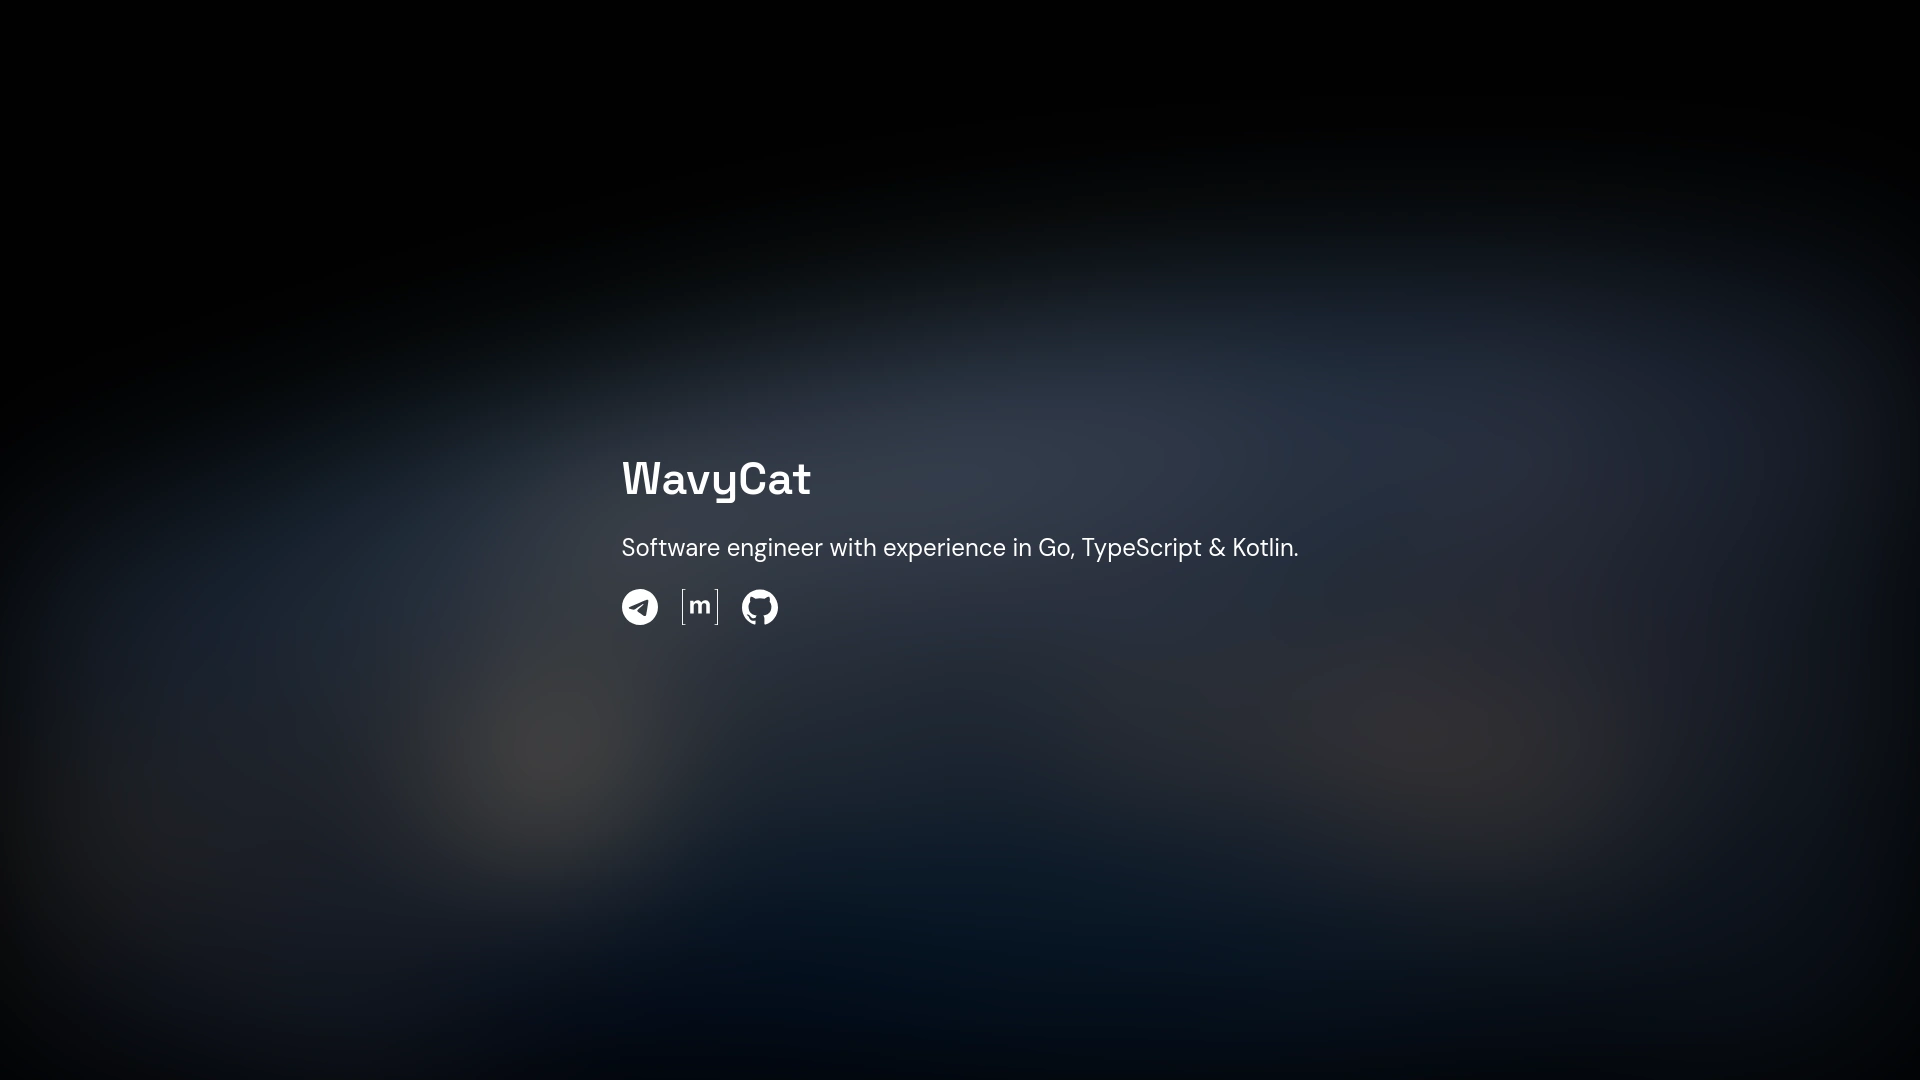
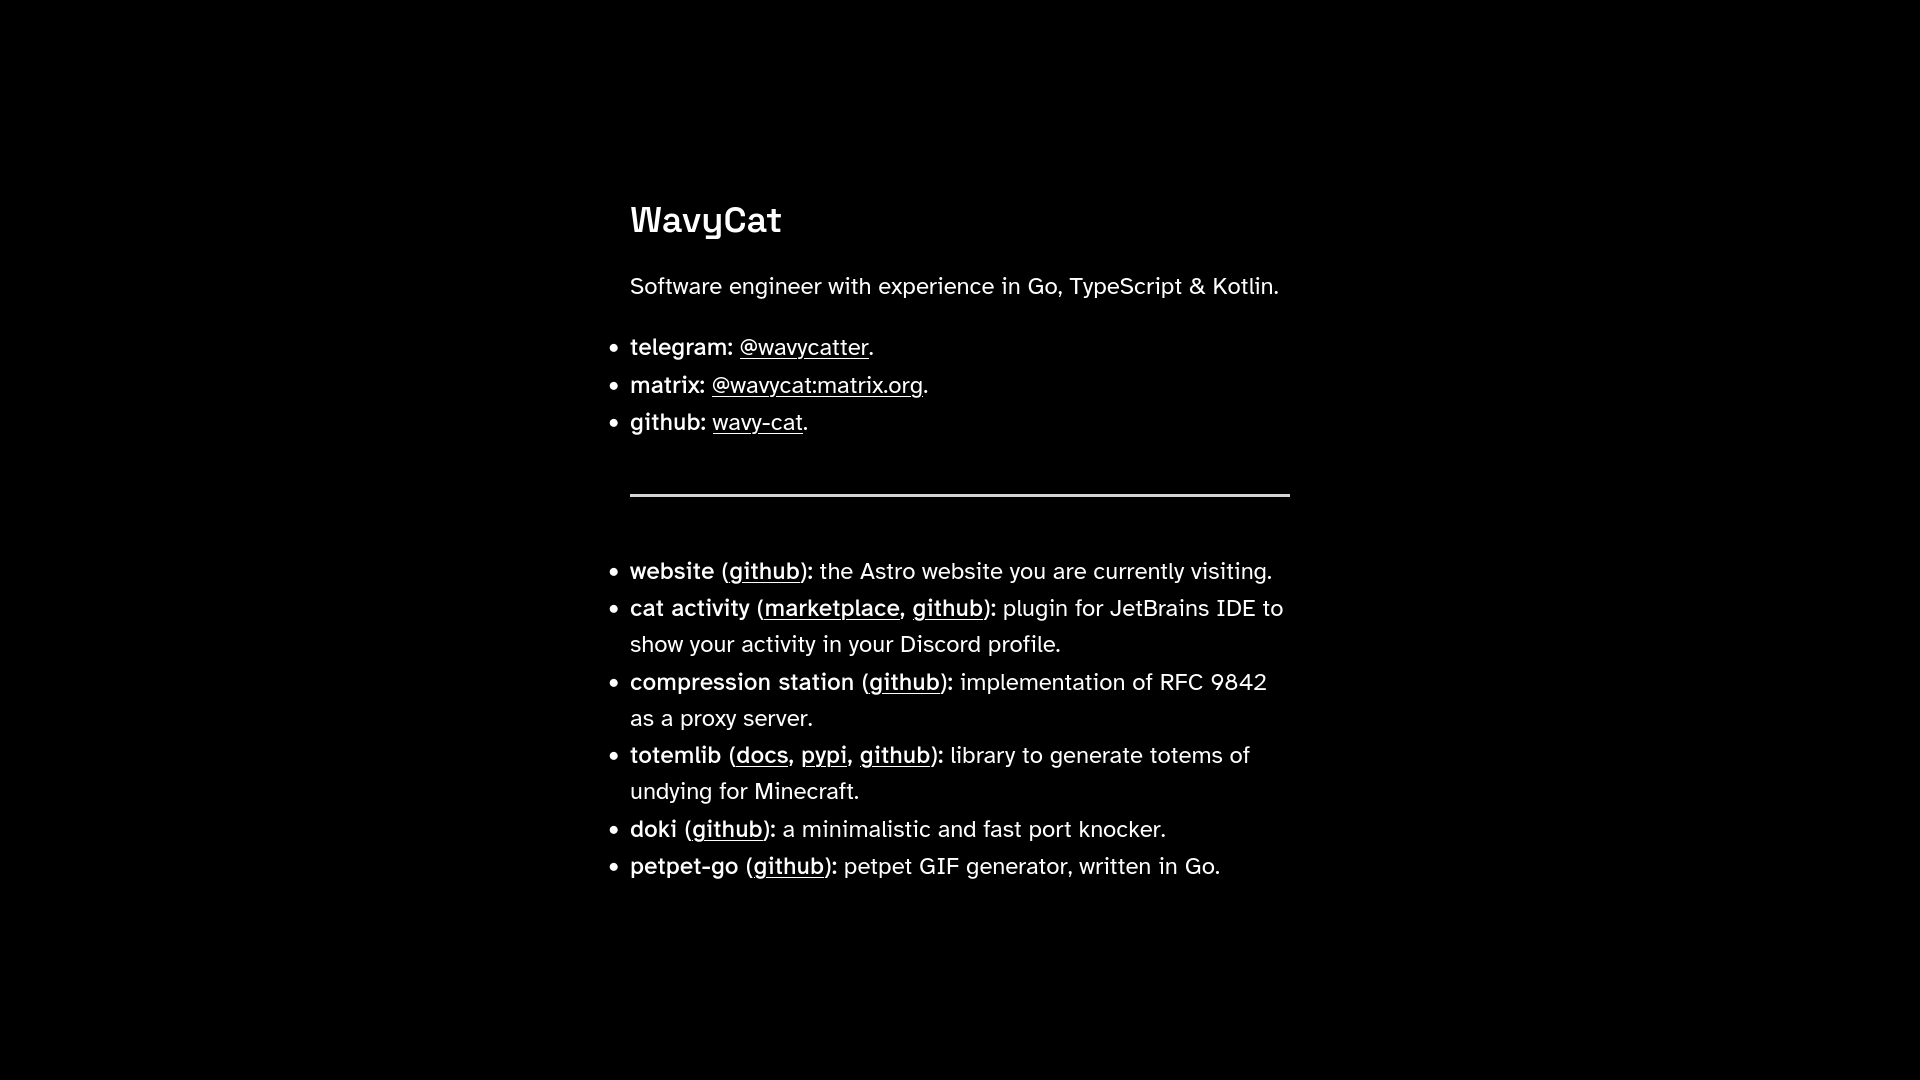
refactor: update design to v5

diff --git a/src/styles/global.css b/src/styles/global.css
@@ -1,4 +1,4 @@
 @import "tailwindcss";
 @theme inline {
-    --font-sans: var(--font-dm-sans);
+    --font-sans: var(--font-atkinson-hyperlegible);
 }